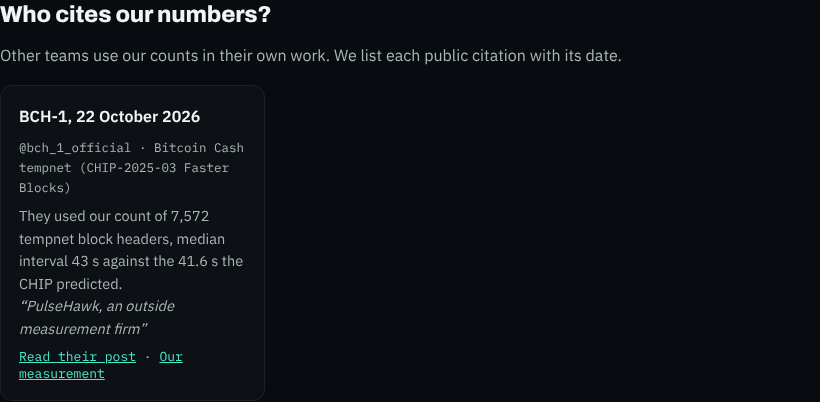
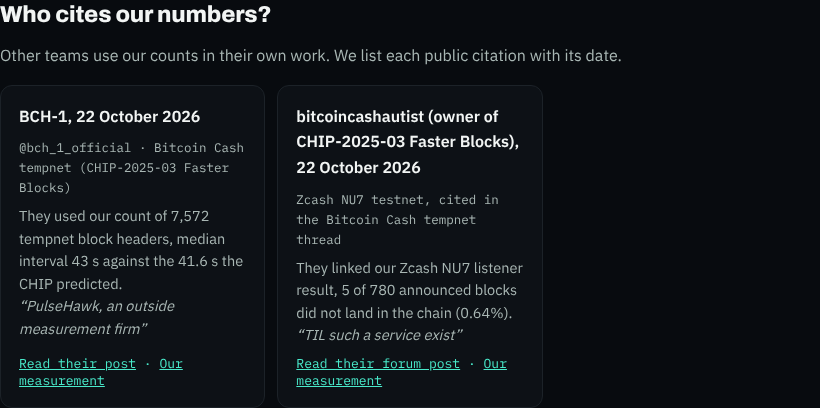
citations: zweiter eintrag, bitcoincashautist im bch-forum
- zitat woertlich wie geliefert ("TIL such a service exist")
- karte setzt nur noch "They" vor what_they_used, das mit dem verb
  beginnt; bch-1 traegt dafuer "used ..." und zeigt denselben satz
- leeres source_handle: zweite zeile nur mit netzwerk
- bericht und screenshots ergaenzt

Claude-Session: https://claude.ai/code/session_015SdCP31BCNhp7TLQwH5kUp

diff --git a/independence.html b/independence.html
@@ -132,7 +132,7 @@
 </section>
 <section id="cited-by"><h2>Who cites our numbers?</h2>
 <p>Other teams use our counts in their own work. We list each public citation with its date.</p>
-<div class="cards"><div class="card"><span class="ct">BCH-1, 22 October 2026</span><span class="src">@bch_1_official · Bitcoin Cash tempnet (CHIP-2025-03 Faster Blocks)</span><span class="cd">They used our count of 7,572 tempnet block headers, median interval 43 s against the 41.6 s the CHIP predicted.<br><i>“PulseHawk, an outside measurement firm”</i></span><span class="cp"><a href="https://x.com/bch_1_official/status/2113377832479121574" target="_blank" rel="noopener">Read their post</a> · <a href="/#bch-median">Our measurement</a></span></div></div>
+<div class="cards"><div class="card"><span class="ct">BCH-1, 22 October 2026</span><span class="src">@bch_1_official · Bitcoin Cash tempnet (CHIP-2025-03 Faster Blocks)</span><span class="cd">They used our count of 7,572 tempnet block headers, median interval 43 s against the 41.6 s the CHIP predicted.<br><i>“PulseHawk, an outside measurement firm”</i></span><span class="cp"><a href="https://x.com/bch_1_official/status/2113377832479121574" target="_blank" rel="noopener">Read their post</a> · <a href="/#bch-median">Our measurement</a></span></div><div class="card"><span class="ct">bitcoincashautist (owner of CHIP-2025-03 Faster Blocks), 22 October 2026</span><span class="src">Zcash NU7 testnet, cited in the Bitcoin Cash tempnet thread</span><span class="cd">They linked our Zcash NU7 listener result, 5 of 780 announced blocks did not land in the chain (0.64%).<br><i>“TIL such a service exist”</i></span><span class="cp"><a href="https://bitcoincashresearch.org/t/tempnet-2027-chipnet-upgrade-pre-upgrade-testing/2173/12" target="_blank" rel="noopener">Read their forum post</a> · <a href="/zcash-nu7">Our measurement</a></span></div></div>
 </section>
 <section class="faq"><h2>Questions we get asked</h2><details><summary><h3>Can a client stop a result from being published?</h3></summary><p>No. Clients see the result before publication and can correct facts, such as a wrong upgrade height or a node version. The findings stay as measured.</p></details><details><summary><h3>Do you accept payment in a client's token?</h3></summary><p>Yes, and it is converted when it arrives. No one at PulseHawk holds a client's token, from offer to publication.</p></details><details><summary><h3>How can anyone check that a result is right?</h3></summary><p>Every published number comes with its window, its method version and the raw data, so anyone can count again.</p></details></section>
 <p class="cta"><a href="/contact" class="btn ghost">Request a measurement</a></p>

diff --git a/index.html b/index.html
@@ -85,7 +85,7 @@
 </section>
 <section><h2>Who cites our numbers?</h2>
 <p>Other teams use our counts in their own work. We list each public citation with its date.</p>
-<div class="cards"><div class="card"><span class="ct">BCH-1, 22 October 2026</span><span class="src">@bch_1_official · Bitcoin Cash tempnet (CHIP-2025-03 Faster Blocks)</span><span class="cd">They used our count of 7,572 tempnet block headers, median interval 43 s against the 41.6 s the CHIP predicted.<br><i>“PulseHawk, an outside measurement firm”</i></span><span class="cp"><a href="https://x.com/bch_1_official/status/2113377832479121574" target="_blank" rel="noopener">Read their post</a> · <a href="/#bch-median">Our measurement</a></span></div></div>
+<div class="cards"><div class="card"><span class="ct">BCH-1, 22 October 2026</span><span class="src">@bch_1_official · Bitcoin Cash tempnet (CHIP-2025-03 Faster Blocks)</span><span class="cd">They used our count of 7,572 tempnet block headers, median interval 43 s against the 41.6 s the CHIP predicted.<br><i>“PulseHawk, an outside measurement firm”</i></span><span class="cp"><a href="https://x.com/bch_1_official/status/2113377832479121574" target="_blank" rel="noopener">Read their post</a> · <a href="/#bch-median">Our measurement</a></span></div><div class="card"><span class="ct">bitcoincashautist (owner of CHIP-2025-03 Faster Blocks), 22 October 2026</span><span class="src">Zcash NU7 testnet, cited in the Bitcoin Cash tempnet thread</span><span class="cd">They linked our Zcash NU7 listener result, 5 of 780 announced blocks did not land in the chain (0.64%).<br><i>“TIL such a service exist”</i></span><span class="cp"><a href="https://bitcoincashresearch.org/t/tempnet-2027-chipnet-upgrade-pre-upgrade-testing/2173/12" target="_blank" rel="noopener">Read their forum post</a> · <a href="/zcash-nu7">Our measurement</a></span></div></div>
 </section>
 <section><h2>For foundations and grant committees</h2>
 <p>Ongoing measurement of a network works best as a public good. When a grant funds it, every result and its raw data are published openly, for the whole ecosystem, with the same method and the same rules as paid work.</p>

diff --git a/scripts/b2b_pages.py b/scripts/b2b_pages.py
@@ -266,13 +266,17 @@ def zitat_karte(e):
                                                         ' target="_blank" rel="noopener"')]
     if e["our_page"]:
         links.append(a(e["our_page"], "Our measurement"))
+    # what_they_used beginnt mit einem verb ("used ...", "linked ..."), die
+    # karte setzt "They" davor
     satz = e["what_they_used"].strip().rstrip(".")
+    # ohne handle (etwa ein forum) steht nur das netzwerk in der zeile
+    herkunft = " · ".join(E(x) for x in (e["source_handle"], e["network"]) if x)
     # nur vorhandene klassen, damit die css der uebrigen seiten gleich bleibt
     return ('<div class="card"><span class="ct">%s, %s</span>'
-            '<span class="src">%s · %s</span>'
-            '<span class="cd">They used %s.<br><i>\u201c%s\u201d</i></span>'
+            '<span class="src">%s</span>'
+            '<span class="cd">They %s.<br><i>\u201c%s\u201d</i></span>'
             '<span class="cp">%s</span></div>'
-            % (E(e["source_name"]), lang(e["date"]), E(e["source_handle"]), E(e["network"]),
+            % (E(e["source_name"]), lang(e["date"]), herkunft,
                E(satz), E(e["quote"]), " · ".join(links)))
 
 

diff --git a/berichte/2026-10-23-cited-by.md b/berichte/2026-10-23-cited-by.md
@@ -10,6 +10,15 @@ Auftrag von Ben vom 23.10.2026, umgesetzt in einem PR, #36 (Branch `site/cited-b
   - Zitat: "PulseHawk, an outside measurement firm".
   - `our_page` ist `/#bch-median`, der Anker an der Bitcoin-Cash-Karte auf der Startseite. Eine eigene Seite zur Tempnet-Messung gibt es nicht.
   - `type` ist `post`, `tagged` ist `false` (siehe offene Fragen).
+- **Zweiter Eintrag (Ben, 23.10.2026 abends):** bitcoincashautist (owner of CHIP-2025-03 Faster Blocks), 22.10.2026, im Forum bitcoincashresearch.org.
+  - Netzwerk: Zcash NU7 testnet, cited in the Bitcoin Cash tempnet thread.
+  - Kartentext: "They linked our Zcash NU7 listener result, 5 of 780 announced blocks did not land in the chain (0.64%)."
+  - Zitat wörtlich wie geliefert, nicht korrigiert: "TIL such a service exist". Den Rest seines Satzes zitiert die Karte nicht.
+  - `source_handle` ist leer. Die Karte zeigt dann in der zweiten Zeile nur das Netzwerk, ohne Trennpunkt.
+  - `type` ist `forum`, deshalb heißt der Link "Read their forum post". `tagged` ist `false`. "Our measurement" führt auf `/zcash-nu7`.
+  - **Kleine Änderung an der Karte:** Bisher stand vor `what_they_used` fest "They used". Bens Text beginnt mit "linked", daraus wäre "They used linked our ..." geworden. Die Karte setzt jetzt nur "They" davor, und `what_they_used` beginnt mit dem Verb. Beim BCH-1-Eintrag steht deshalb "used our count of ..." in der Datei, und die Karte zeigt denselben Satz wie vorher.
+  - Der Forumsbeitrag ist aus der Claude-Umgebung gesperrt (Proxy 403). Das Zitat ist also nicht gegen das Original geprüft.
+  - Mit zwei Einträgen steht der Zähler noch nicht da, er erscheint ab drei.
 - **`scripts/b2b_pages.py`** baut den Abschnitt aus der Datei. Er prüft jeden Eintrag und bricht den Build ab, wenn eines davon zutrifft:
   - ein Pflichtfeld fehlt
   - das Datum ist ungültig
@@ -108,10 +117,11 @@ Zitierkasten auf `/method`, 1280 px und 390 px:
 2. **`tagged` bei BCH-1:** Steht im Post `@pulsehawkio`? Ich habe `false` eingetragen, weil ich den Post nicht öffnen kann.
 3. **Fallseite:** Soll es eine Seite zur Bitcoin-Cash-Tempnet-Messung geben? Dann bekäme sie den Kasten mit CSV-Zeile, und `our_page` zeigt auf sie statt auf `/#bch-median`.
 4. **Zcash, zwei Zitierformen:** Unter dem Download-Knopf steht weiter die Lizenzzeile aus #30, "Cite as PulseHawk (2026), Zcash NU7 testnet block intervals, cut-off 18 October 2026." Der neue Kasten zitiert anders. Soll die Lizenzzeile auf "Data from PulseHawk, licensed CC BY 4.0." gekürzt werden, damit es nur eine Zitierform gibt?
-5. **Methodenseite:** Ist "published" statt "counted" so recht?
-6. **Länge der Liste auf `/independence`:** Der Prüfer erlaubt höchstens 250 Wörter je Abschnitt. Eine Karte hat etwa 40 Wörter, also meldet er ab etwa 6 Zitaten einen Fund. Dann zeigt `/independence` die Liste entweder in Teilen, etwa nach Monat, oder die Liste wird von der Regel ausgenommen.
+5. **Anker für bitcoincashautist:** `our_page` ist wie geliefert `/zcash-nu7`. Sein Zitat bezieht sich auf den Listener-Wert. Soll der Link auf `/zcash-nu7#orphaned` zeigen, also direkt auf den Abschnitt mit 5 von 780?
+6. **Methodenseite:** Ist "published" statt "counted" so recht?
+7. **Länge der Liste auf `/independence`:** Der Prüfer erlaubt höchstens 250 Wörter je Abschnitt. Eine Karte hat etwa 40 Wörter, also meldet er ab etwa 6 Zitaten einen Fund. Dann zeigt `/independence` die Liste entweder in Teilen, etwa nach Monat, oder die Liste wird von der Regel ausgenommen.
 
 ## Was Ben tun muss
-1. Den Post öffnen, Wortlaut, Zahlen und `tagged` bestätigen, dann #36 mergen.
+1. Den X-Post von BCH-1 und den Forumsbeitrag öffnen. Wortlaut, Zahlen und `tagged` bestätigen, dann #36 mergen.
 2. Nach dem Merge auf dem iPhone oder Mac in Safari einmal "copy" auf pulsehawk.io/zcash-nu7 drücken und den Satz irgendwo einfügen.
 3. Weitere Zitate als Eintrag in `data/citations.json` ergänzen und `python3 scripts/b2b_pages.py` laufen lassen, oder Claude damit beauftragen.
